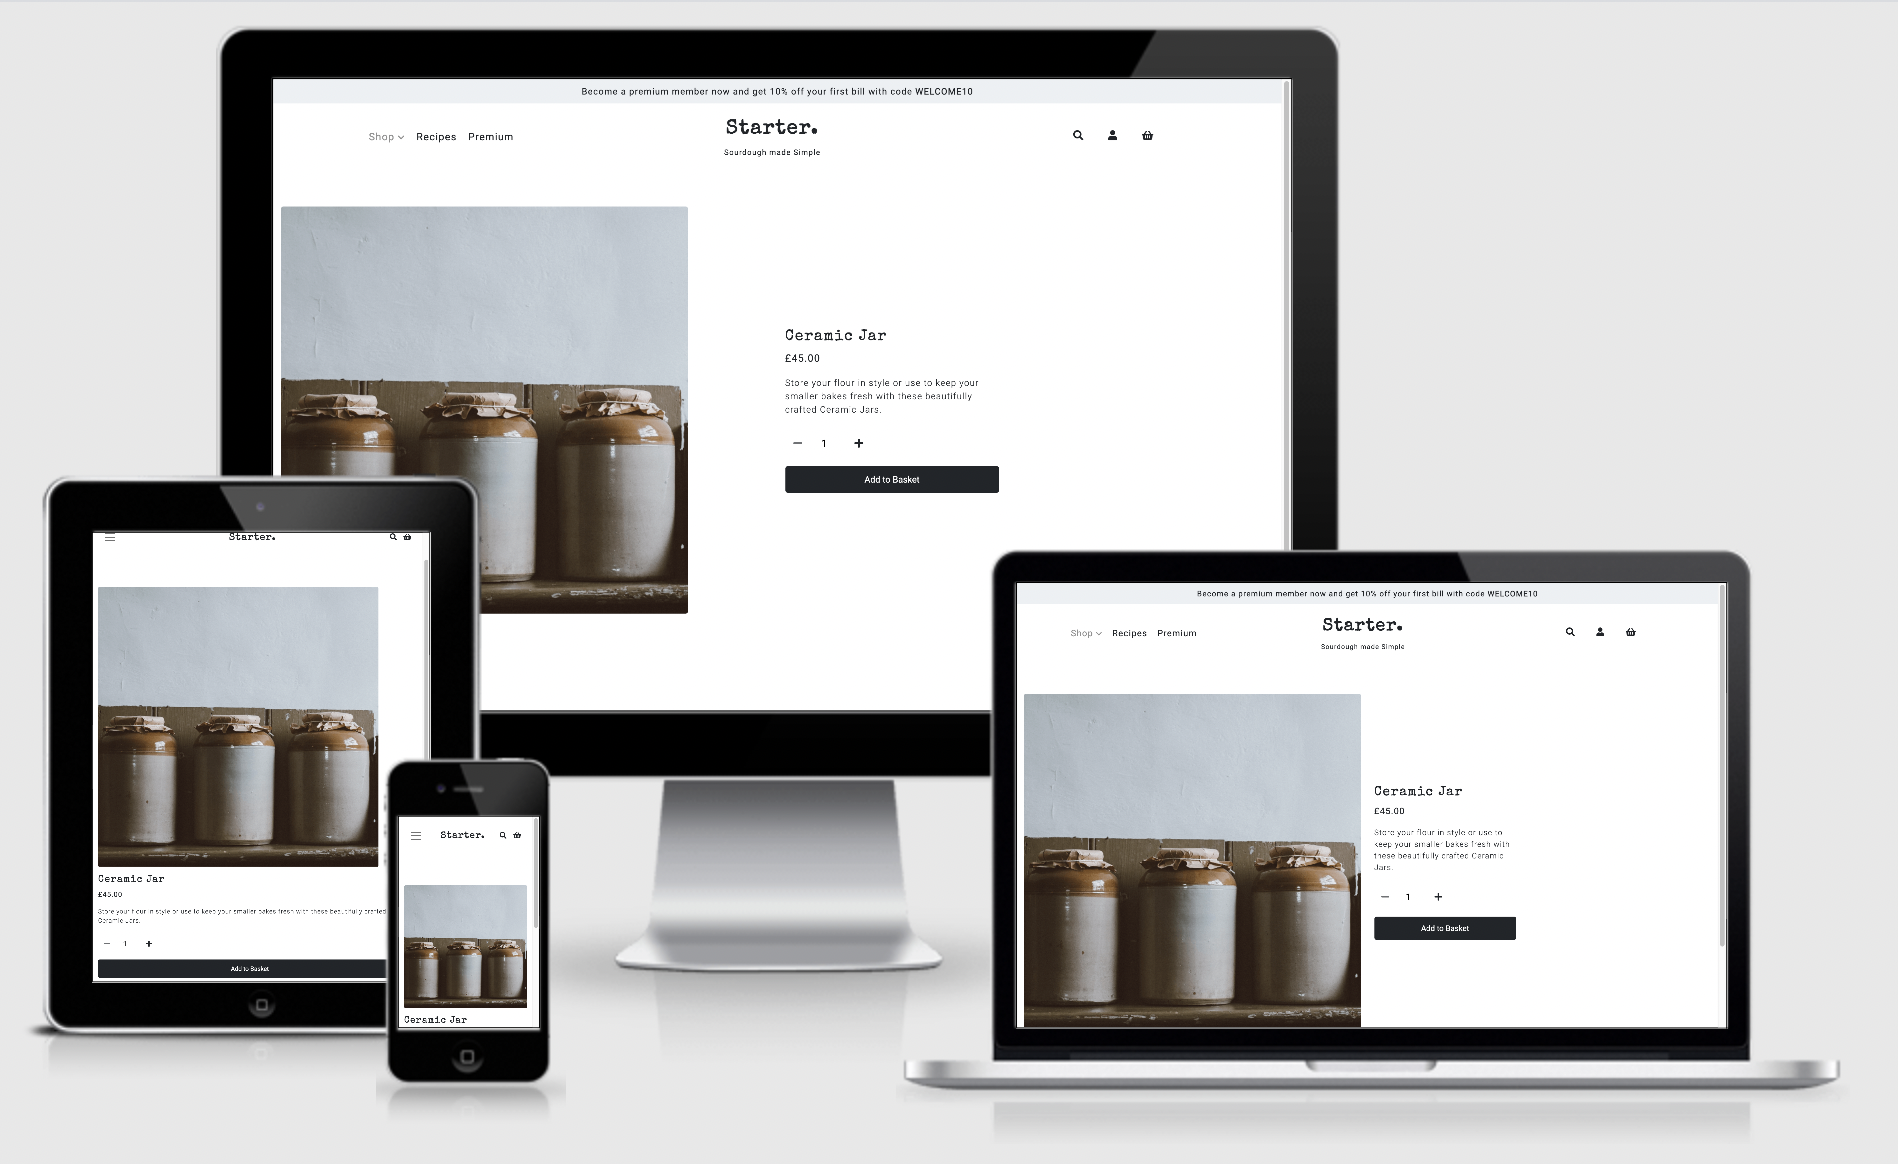
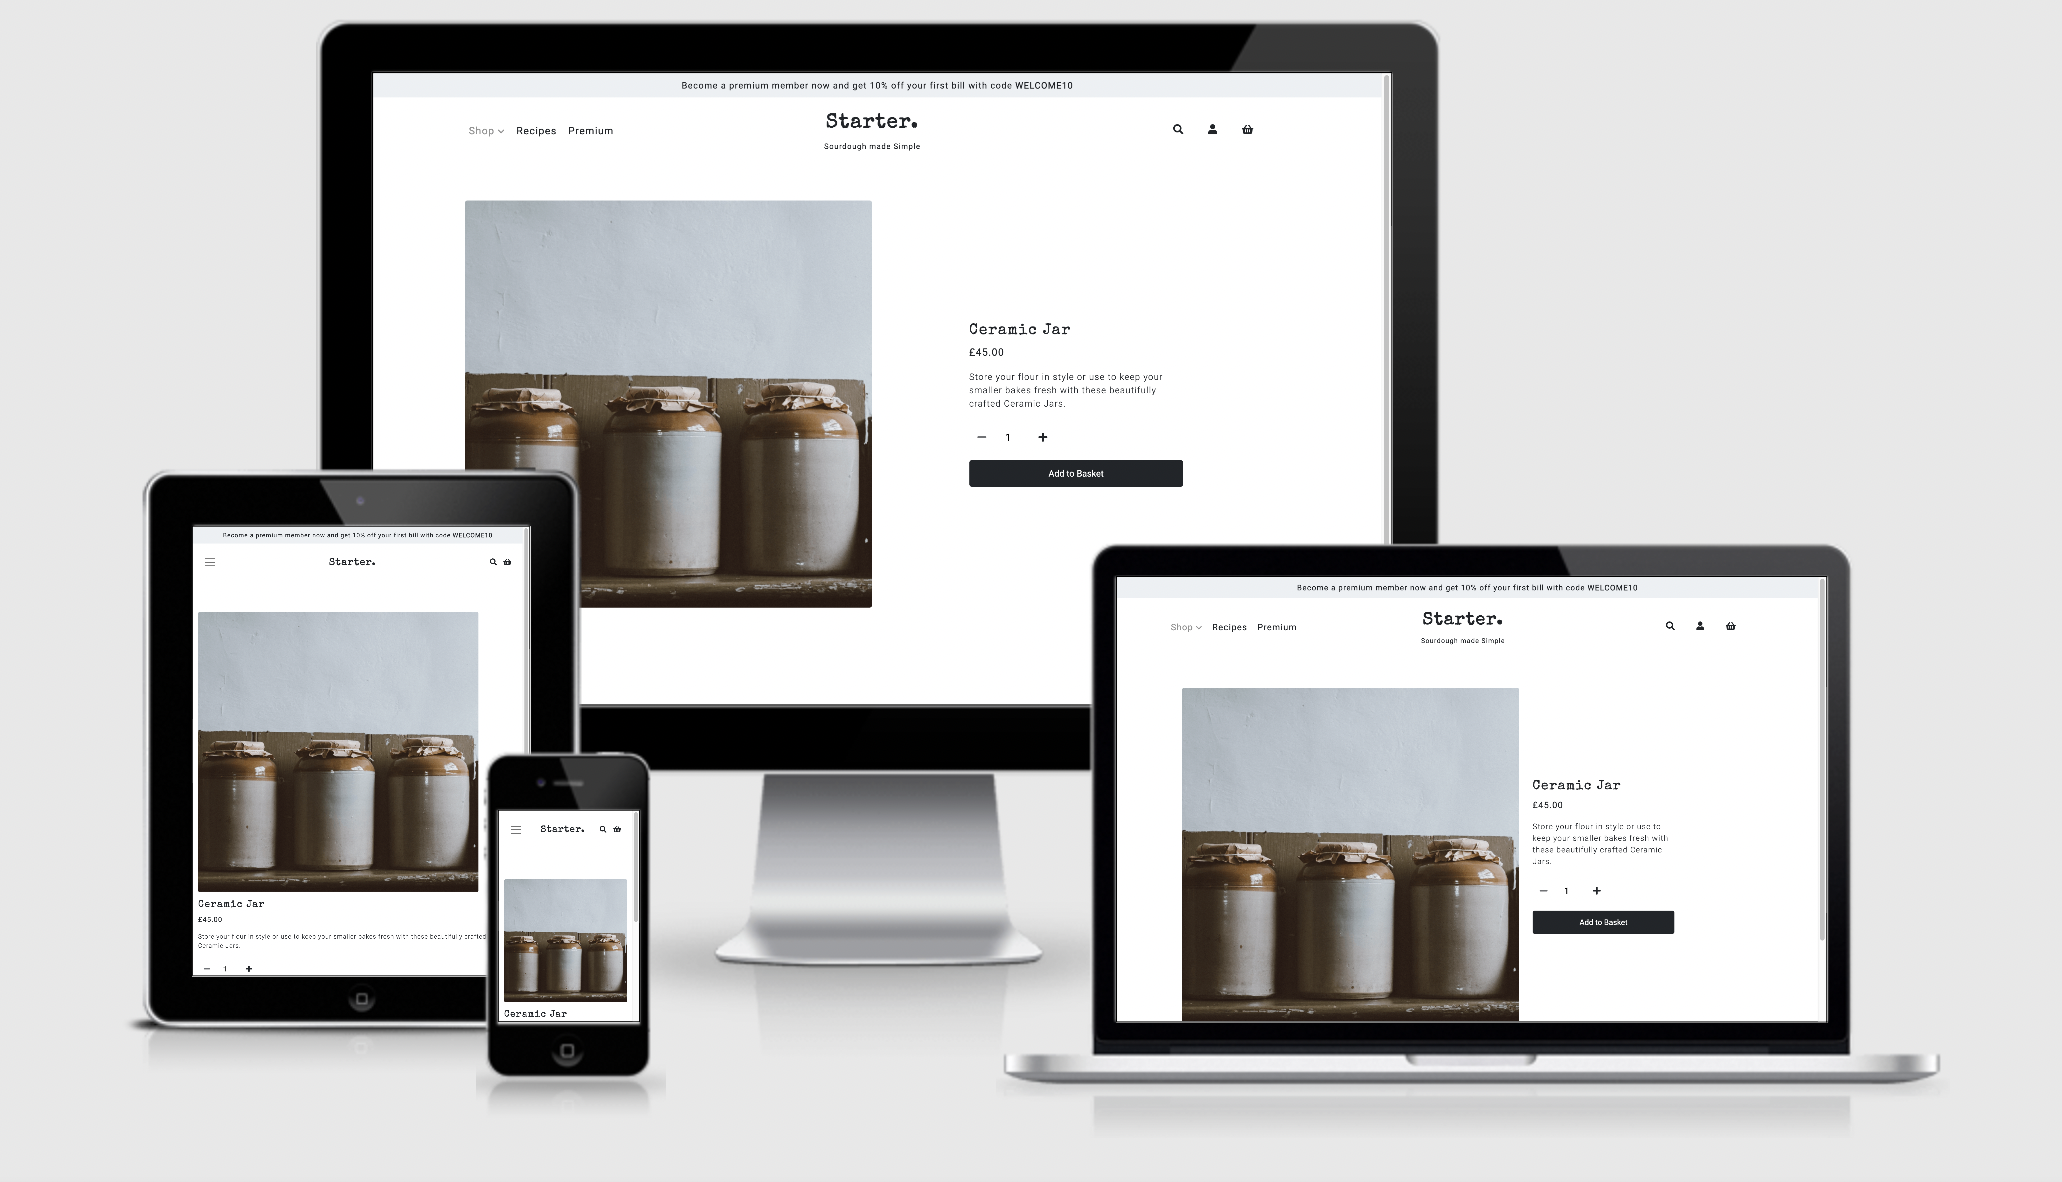
Add product-details page info to readme

diff --git a/README.md b/README.md
@@ -325,24 +325,37 @@ Icons are used throughout the site to provide the user with visual cues and crea
 
 ### Shop / Products Page
 
-#### Products
 ![Shop Responsive](./static/images/readme-images/responsive/shop-responsive.png)
 
+#### Products
 - Bootstrap cards were used to display product information
 - If user's arrived on the shop page via the 'all' navigation all products will be visable.
 - If user's arrived on the shop page via the 'tools' or 'ingredients' the products will be filtered by their respective category with the category name displayed e.g:
 
 ![Shop Filter](./static/images/readme-images/shop-filter.png)
 
-
 #### Product Count
 
 - Logic to display product count of selected filter: `{{ products|length }}`
 
 #### Sort Options
-
 ![Sort options](./static/images/readme-images/sort-options.png)
 
 - User's are able to sort products by a number of options to make shopping easier. 
+
+### Product Details
+![Product Details](./static/images/readme-images/responsive/product-details-responsive.png)
+
+#### Buttons
+![Product Details Buttons](./static/images/readme-images/product-details-buttons.png)
+
+- The quantity buttons use javascript to overlay the default plus/minus buttons to fit with the style of the website.
+
+- The Add to Basket uses python/django to add the specified quantity of the specified product to the shopping basket. If successful, a success toast is triggered with a summary of the shopping basket. 
+
+- The edit/delete buttons are only visable if the user is a Superuser: `if request.user.is_superuser `. 
+
+- Clicking delete triggers a defensive modal:
+![Delete modal](./static/images/readme-images/delete-product-modal.png)
 
 
